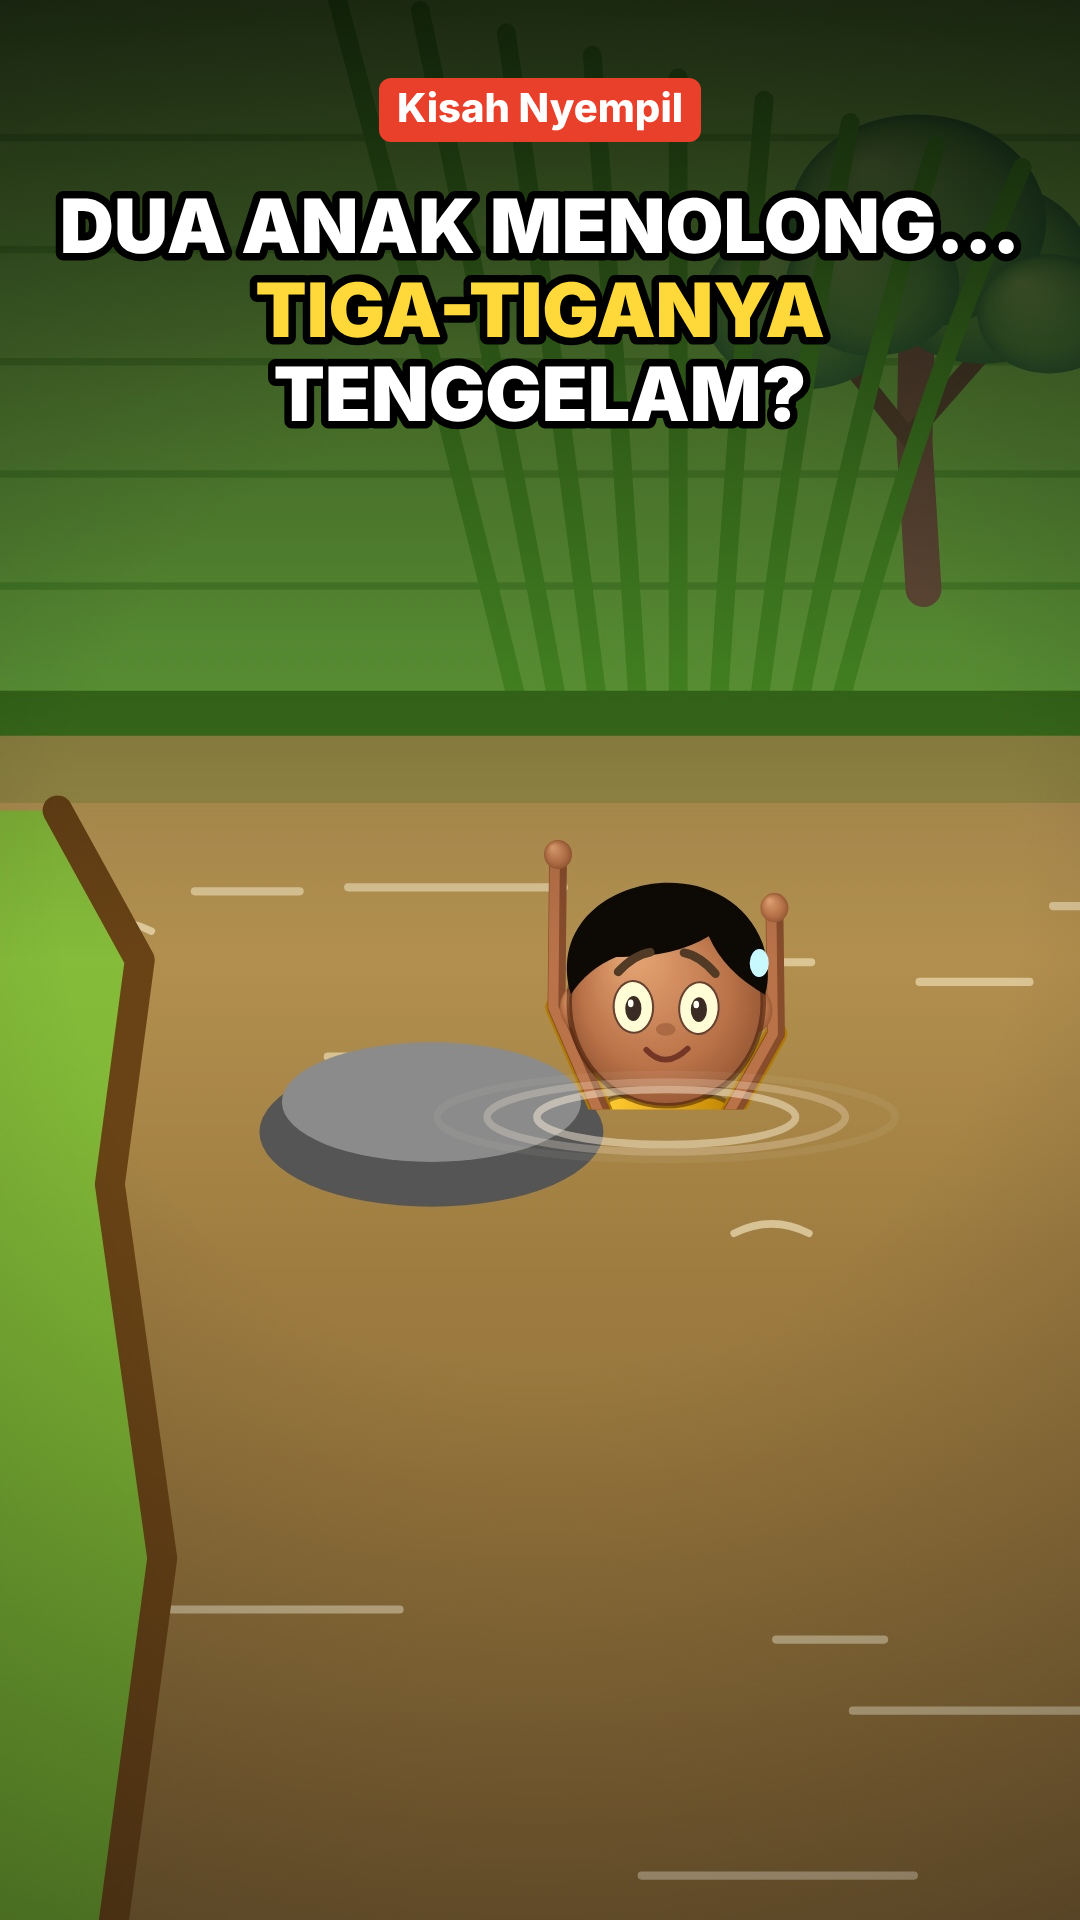
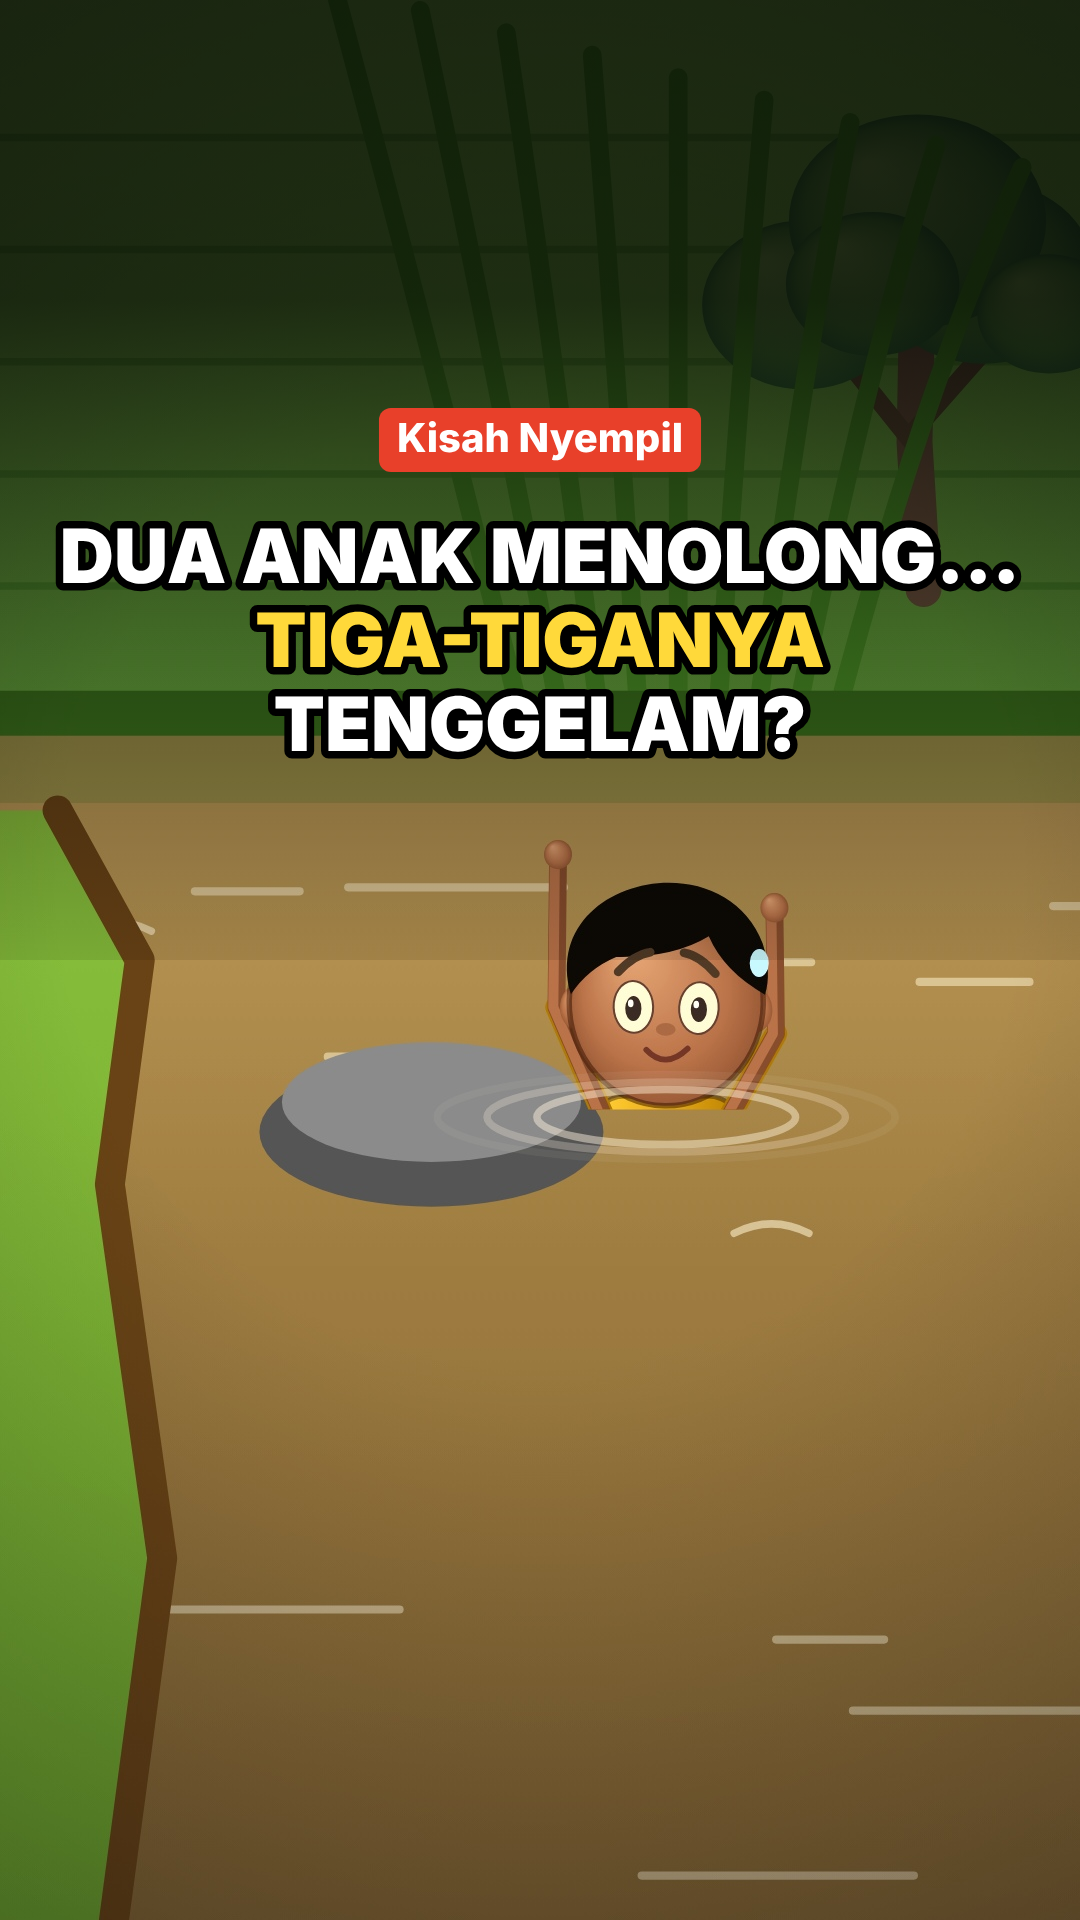
Judul lebih kecil & lebih bawah (video + thumbnail vertikal); thumbnail Lele/Kali/Tiket diperbarui
Claude-Session: https://claude.ai/code/session_01Godms2QmoQZrHkybEKC2ML

Changed region(s): [[0.0, 0.0312, 1.0, 0.4062]]

diff --git a/animasi/lele/lele-aldi-hilang.html b/animasi/lele/lele-aldi-hilang.html
@@ -693,9 +693,9 @@ function kertasPH(x,y,s,c){at(x,y,s,()=>{box(-10,-60,20,120,3,'#f4f0e4');box(-10
 Object.assign(people,{pengepul:{skin:['#c8946a','#a06a46','#74482e'],shirt:['#3a6ab0','#2a4e8a','#1a3466'],pants:'#2a2a2a',kind:'hair',hair:'#222',cap:['#e8e8e8','#c8c8c8','#989898']}});
 // ---------- Pembantu tambahan ----------
 // Judul hook muncul satu per satu (pop) begitu video mulai bergerak, setelah sampul ± 1 detik.
-function hookTitle(a){const t=window._t||0;g.save();g.globalAlpha=a;const bg=clamp((t-.9)/.3);g.fillStyle='rgba(0,0,0,'+(.5*bg)+')';g.fillRect(0,0,W,330);
-  g.font='800 15px system-ui, sans-serif';const tw=g.measureText('Kisah Nyempil').width+24;g.save();g.globalAlpha=a*bg;g.fillStyle='#e8402a';g.beginPath();g.roundRect(W/2-tw/2,58,tw,26,8);g.fill();g.fillStyle='#fff';g.textAlign='center';g.textBaseline='middle';g.fillText('Kisah Nyempil',W/2,71);capText(EP_TITLE,W/2,110,20,'#ffffff',5);g.restore();
-  HOOK.forEach((l,i)=>{const k=clamp((t-1.05-i*.38)/.28);if(k<=0)return;const sc=k<1?.6+.55*Math.sin(k*Math.PI*.75):1;g.save();g.globalAlpha=a*clamp(k*1.6);g.translate(W/2,165+i*46);g.scale(sc,sc);capText(l,0,0,36,l.includes(HOOK_HL)?'#ffd93a':'#ffffff',9);g.restore()});g.restore()}
+function hookTitle(a){const t=window._t||0;g.save();g.globalAlpha=a;const bg=clamp((t-.9)/.3);const gr0=g.createLinearGradient(0,150,0,430);gr0.addColorStop(0,'rgba(0,0,0,0)');gr0.addColorStop(.3,'rgba(0,0,0,'+(.45*bg)+')');gr0.addColorStop(.8,'rgba(0,0,0,'+(.45*bg)+')');gr0.addColorStop(1,'rgba(0,0,0,0)');g.fillStyle=gr0;g.fillRect(0,150,W,280);
+  g.font='800 15px system-ui, sans-serif';const tw=g.measureText('Kisah Nyempil').width+24;g.save();g.globalAlpha=a*bg;g.fillStyle='#e8402a';g.beginPath();g.roundRect(W/2-tw/2,192,tw,26,8);g.fill();g.fillStyle='#fff';g.textAlign='center';g.textBaseline='middle';g.fillText('Kisah Nyempil',W/2,205);capText(EP_TITLE,W/2,240,17,'#ffffff',5);g.restore();
+  HOOK.forEach((l,i)=>{const k=clamp((t-1.05-i*.38)/.28);if(k<=0)return;const sc=k<1?.6+.55*Math.sin(k*Math.PI*.75):1;g.save();g.globalAlpha=a*clamp(k*1.6);g.translate(W/2,286+i*40);g.scale(sc,sc);capText(l,0,0,30,l.includes(HOOK_HL)?'#ffd93a':'#ffffff',9);g.restore()});g.restore()}
 // Kartu profil (lower third). Saat tampil, caption kata disembunyikan supaya tidak bertumpuk.
 const _capAsli=caption;caption=function(w){if(!window._noCap)_capAsli(w)};
 function kartuProfil(nama,asal,k){if(k<=0)return;const e=1-Math.pow(1-clamp(k),3),x=mix(-320,24,e);g.save();g.globalAlpha=clamp(k*2);

diff --git a/animasi/thumb.js b/animasi/thumb.js
@@ -36,16 +36,16 @@ const fs = require('fs');
             const sy = 1920 * .28, sh = 1920 * .5, dw = H * 1080 / sh; g.drawImage(img, 0, sy, 1080, sh, W - dw + 40, 0, dw, H);
           }
           // Gelapkan area teks supaya terbaca.
-          const grad = mode === 'v' ? g.createLinearGradient(0, 0, 0, H * .5) : g.createLinearGradient(0, 0, W * .7, 0);
+          const grad = mode === 'v' ? g.createLinearGradient(0, 300, 0, H * .55) : g.createLinearGradient(0, 0, W * .7, 0);
           grad.addColorStop(0, 'rgba(0,0,0,.75)'); grad.addColorStop(1, 'rgba(0,0,0,0)');
           g.fillStyle = grad; g.fillRect(0, 0, W, mode === 'v' ? H * .5 : H);
           const maxW = mode === 'v' ? W * .9 : W * .58;
-          let size = mode === 'v' ? 104 : 78;
+          let size = mode === 'v' ? 84 : 78;
           g.font = '900 ' + size + 'px system-ui, sans-serif';
           const widest = Math.max(...lines.map(l => g.measureText(l).width));
           if (widest > maxW) size = Math.floor(size * maxW / widest);
           g.font = '900 ' + size + 'px system-ui, sans-serif'; g.textBaseline = 'middle'; g.lineJoin = 'round';
-          const lh = size * 1.12, x0 = mode === 'v' ? W / 2 : 50, y0 = mode === 'v' ? 230 : H / 2 - (lines.length - 1) * lh / 2;
+          const lh = size * 1.12, x0 = mode === 'v' ? W / 2 : 50, y0 = mode === 'v' ? 560 : H / 2 - (lines.length - 1) * lh / 2;
           g.textAlign = mode === 'v' ? 'center' : 'left';
           lines.forEach((l, i) => {
             const y = y0 + i * lh;
@@ -54,7 +54,7 @@ const fs = require('fs');
           });
           // Label kanal kecil.
           const tag = 'Kisah Nyempil'; const ts = mode === 'v' ? 40 : 30; g.font = '800 ' + ts + 'px system-ui, sans-serif';
-          const tw = g.measureText(tag).width + 36, tx = mode === 'v' ? W / 2 - tw / 2 : 50, ty = mode === 'v' ? 110 : 40;
+          const tw = g.measureText(tag).width + 36, tx = mode === 'v' ? W / 2 - tw / 2 : 50, ty = mode === 'v' ? 440 : 40;
           g.fillStyle = '#e8402a'; g.beginPath(); g.roundRect(tx, ty - ts * .8, tw, ts * 1.6, 12); g.fill();
           g.fillStyle = '#fff'; g.textAlign = 'left'; g.fillText(tag, tx + 18, ty);
           return c.toDataURL('image/png');

diff --git a/animasi/kali/raih-lempar-jangan-terjun.html b/animasi/kali/raih-lempar-jangan-terjun.html
@@ -786,9 +786,9 @@ function paintAt(t){
 
 
 // Judul hook muncul satu per satu (pop) begitu video mulai bergerak, setelah sampul ± 1 detik.
-function hookTitle(a){const t=window._t||0;g.save();g.globalAlpha=a;const bg=clamp((t-.9)/.3);g.fillStyle='rgba(0,0,0,'+(.5*bg)+')';g.fillRect(0,0,W,330);
-  g.font='800 15px system-ui, sans-serif';const tw=g.measureText('Kisah Nyempil').width+24;g.save();g.globalAlpha=a*bg;g.fillStyle='#e8402a';g.beginPath();g.roundRect(W/2-tw/2,58,tw,26,8);g.fill();g.fillStyle='#fff';g.textAlign='center';g.textBaseline='middle';g.fillText('Kisah Nyempil',W/2,71);capText(EP_TITLE,W/2,110,20,'#ffffff',5);g.restore();
-  HOOK.forEach((l,i)=>{const k=clamp((t-1.05-i*.38)/.28);if(k<=0)return;const sc=k<1?.6+.55*Math.sin(k*Math.PI*.75):1;g.save();g.globalAlpha=a*clamp(k*1.6);g.translate(W/2,165+i*46);g.scale(sc,sc);capText(l,0,0,36,l.includes(HOOK_HL)?'#ffd93a':'#ffffff',9);g.restore()});g.restore()}
+function hookTitle(a){const t=window._t||0;g.save();g.globalAlpha=a;const bg=clamp((t-.9)/.3);const gr0=g.createLinearGradient(0,150,0,430);gr0.addColorStop(0,'rgba(0,0,0,0)');gr0.addColorStop(.3,'rgba(0,0,0,'+(.45*bg)+')');gr0.addColorStop(.8,'rgba(0,0,0,'+(.45*bg)+')');gr0.addColorStop(1,'rgba(0,0,0,0)');g.fillStyle=gr0;g.fillRect(0,150,W,280);
+  g.font='800 15px system-ui, sans-serif';const tw=g.measureText('Kisah Nyempil').width+24;g.save();g.globalAlpha=a*bg;g.fillStyle='#e8402a';g.beginPath();g.roundRect(W/2-tw/2,192,tw,26,8);g.fill();g.fillStyle='#fff';g.textAlign='center';g.textBaseline='middle';g.fillText('Kisah Nyempil',W/2,205);capText(EP_TITLE,W/2,240,17,'#ffffff',5);g.restore();
+  HOOK.forEach((l,i)=>{const k=clamp((t-1.05-i*.38)/.28);if(k<=0)return;const sc=k<1?.6+.55*Math.sin(k*Math.PI*.75):1;g.save();g.globalAlpha=a*clamp(k*1.6);g.translate(W/2,286+i*40);g.scale(sc,sc);capText(l,0,0,30,l.includes(HOOK_HL)?'#ffd93a':'#ffffff',9);g.restore()});g.restore()}
 // ---------- Pemutar ----------
 const voice=$('#voice'),seek=$('#seek');
 let useAudio=false,playing=false,base=0,startedAt=0,frameId=0,lastLine=-1;

diff --git a/animasi/tiket-kereta/tiket-kereta-pagi.html b/animasi/tiket-kereta/tiket-kereta-pagi.html
@@ -723,9 +723,9 @@ function paintAt(t){
 
 
 // Judul hook muncul satu per satu (pop) begitu video mulai bergerak, setelah sampul ± 1 detik.
-function hookTitle(a){const t=window._t||0;g.save();g.globalAlpha=a;const bg=clamp((t-.9)/.3);g.fillStyle='rgba(0,0,0,'+(.5*bg)+')';g.fillRect(0,0,W,330);
-  g.font='800 15px system-ui, sans-serif';const tw=g.measureText('Kisah Nyempil').width+24;g.save();g.globalAlpha=a*bg;g.fillStyle='#e8402a';g.beginPath();g.roundRect(W/2-tw/2,58,tw,26,8);g.fill();g.fillStyle='#fff';g.textAlign='center';g.textBaseline='middle';g.fillText('Kisah Nyempil',W/2,71);capText(EP_TITLE,W/2,110,20,'#ffffff',5);g.restore();
-  HOOK.forEach((l,i)=>{const k=clamp((t-1.05-i*.38)/.28);if(k<=0)return;const sc=k<1?.6+.55*Math.sin(k*Math.PI*.75):1;g.save();g.globalAlpha=a*clamp(k*1.6);g.translate(W/2,165+i*46);g.scale(sc,sc);capText(l,0,0,36,l.includes(HOOK_HL)?'#ffd93a':'#ffffff',9);g.restore()});g.restore()}
+function hookTitle(a){const t=window._t||0;g.save();g.globalAlpha=a;const bg=clamp((t-.9)/.3);const gr0=g.createLinearGradient(0,150,0,430);gr0.addColorStop(0,'rgba(0,0,0,0)');gr0.addColorStop(.3,'rgba(0,0,0,'+(.45*bg)+')');gr0.addColorStop(.8,'rgba(0,0,0,'+(.45*bg)+')');gr0.addColorStop(1,'rgba(0,0,0,0)');g.fillStyle=gr0;g.fillRect(0,150,W,280);
+  g.font='800 15px system-ui, sans-serif';const tw=g.measureText('Kisah Nyempil').width+24;g.save();g.globalAlpha=a*bg;g.fillStyle='#e8402a';g.beginPath();g.roundRect(W/2-tw/2,192,tw,26,8);g.fill();g.fillStyle='#fff';g.textAlign='center';g.textBaseline='middle';g.fillText('Kisah Nyempil',W/2,205);capText(EP_TITLE,W/2,240,17,'#ffffff',5);g.restore();
+  HOOK.forEach((l,i)=>{const k=clamp((t-1.05-i*.38)/.28);if(k<=0)return;const sc=k<1?.6+.55*Math.sin(k*Math.PI*.75):1;g.save();g.globalAlpha=a*clamp(k*1.6);g.translate(W/2,286+i*40);g.scale(sc,sc);capText(l,0,0,30,l.includes(HOOK_HL)?'#ffd93a':'#ffffff',9);g.restore()});g.restore()}
 // ---------- Pemutar ----------
 const voice=$('#voice'),seek=$('#seek');
 let useAudio=false,playing=false,base=0,startedAt=0,frameId=0,lastLine=-1;

diff --git a/animasi/PANDUAN-GAYA.md b/animasi/PANDUAN-GAYA.md
@@ -45,6 +45,7 @@ Patokan untuk setiap cerita baru. Contoh lengkapnya: `sumur-mbah-darmi.html` + `
 
 - **Bingkai pembuka harus menampilkan tokoh utama** di latarnya (mis. Aldi di depan kolam), bukan objek polos — tetap dengan judul/hook. Buat varian adegan pertama khusus `window.THUMB` lalu `thumb.js` di detik ± 5.
 - **Judul hook muncul satu per satu** (efek pop per baris) begitu video mulai bergerak setelah sampul ± 1 detik — contoh `hookTitle` di `animasi/lele/lele-aldi-hilang.html` (memakai `window._t` yang diisi di `paintScene`).
+- **Judul jangan terlalu besar & jangan terlalu atas** (bagian atas layar HP tertutup tombol/nama akun): judul animasi di video huruf 30, baris mulai y ± 286 dari 800 (pil "Kisah Nyempil" y 205); thumbnail vertikal huruf 84, mulai y 560 dari 1920 (sudah jadi bawaan `thumb.js`).
 - **Jalur subtitle (y ± 545–615 dari 800) harus kosong**: label/teks adegan ditaruh di atas 530 atau di bawah 630, supaya tidak bertumpuk dengan caption kata.
 - **Gerakan harus hidup**: ikan/hewan berenang di jalur acak (gabungan beberapa sinus + variasi kecepatan), arah badan mengikuti arah gerak, kibasan ekor sesuai kecepatan, berkerumun saat diberi pakan; tangan tokoh bergerak berulang saat menabur/menyiram; objek di air naik-turun pelan.
 
